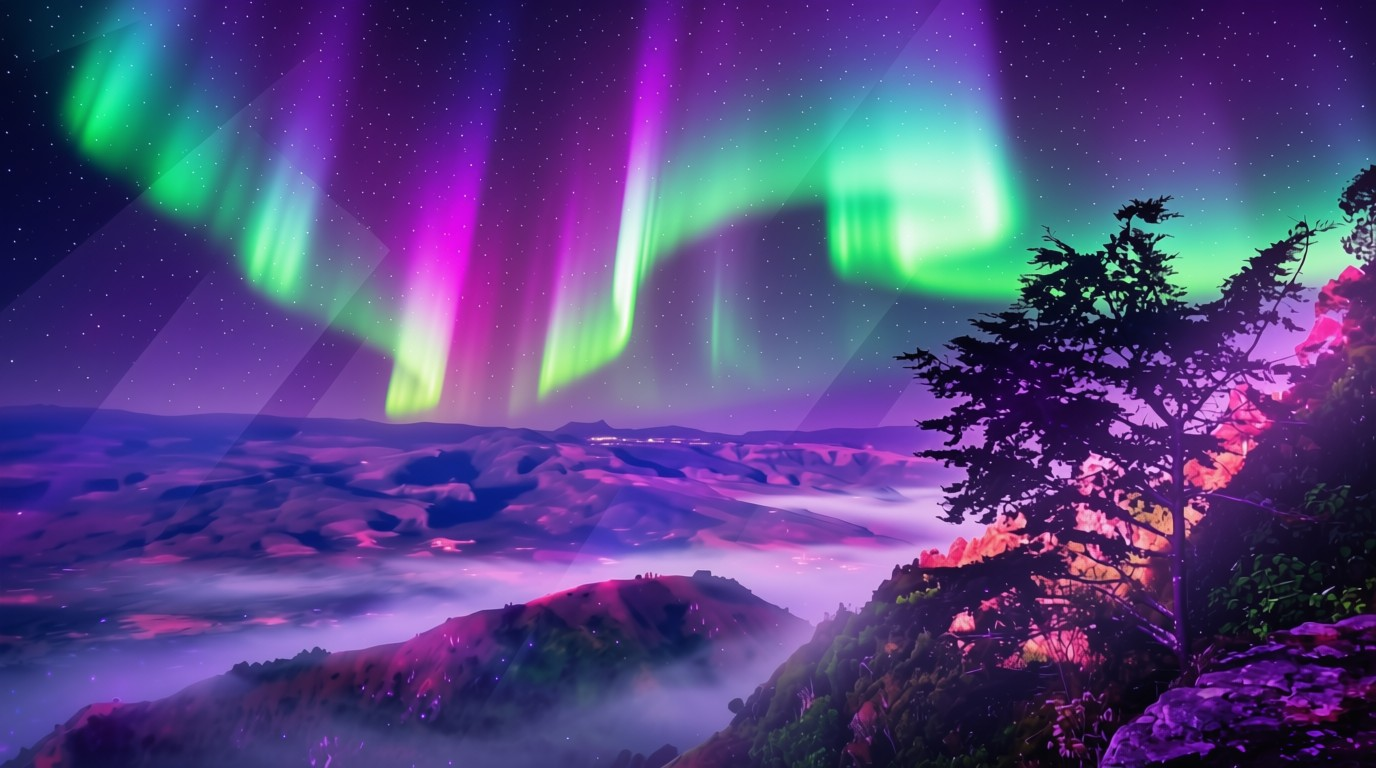
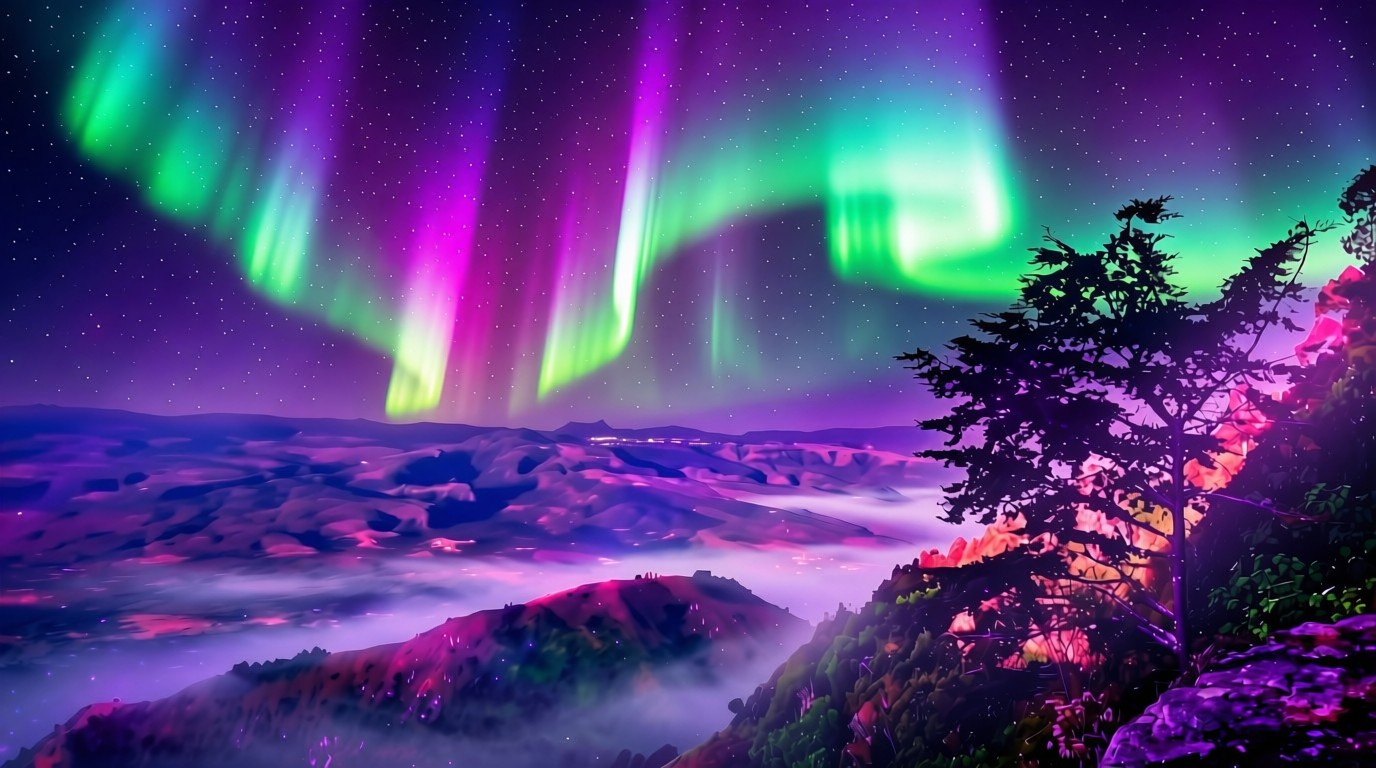
Update aurora image, remove dashboard nav links, increase landing page glassmorphism

diff --git a/client/src/pages/AI369.tsx b/client/src/pages/AI369.tsx
@@ -29,7 +29,7 @@ export default function AI369() {
             backgroundSize: 'cover',
             backgroundPosition: 'center 30%',
             backgroundAttachment: 'fixed',
-            filter: 'hue-rotate(15deg) saturate(1.1) brightness(0.82) contrast(1.05)',
+            filter: 'brightness(0.75) contrast(1.05)',
           }}
         />
         <div className="absolute inset-0" style={{
@@ -50,7 +50,7 @@ export default function AI369() {
       </div>
 
       {/* Nav — glass-surface floating on photo */}
-      <nav className="relative z-50 border-b border-[rgba(255,255,255,0.09)] sticky top-0 glass-surface">
+      <nav className="relative z-50 border-b border-[rgba(255,255,255,0.12)] sticky top-0" style={{ background: 'rgba(10,14,23,0.55)', backdropFilter: 'blur(24px) saturate(1.4)', WebkitBackdropFilter: 'blur(24px) saturate(1.4)', boxShadow: '0 8px 32px rgba(0,0,0,0.5), inset 0 1px 0 rgba(255,255,255,0.08)' }}>
         <div className="max-w-6xl mx-auto px-6 h-14 flex justify-between items-center">
           <div className="flex items-center gap-8">
             <div className="flex items-center gap-2 cursor-pointer" onClick={() => navigate("/")}>
@@ -58,11 +58,6 @@ export default function AI369() {
                 <Activity className="w-4 h-4 text-white" />
               </div>
               <span className="text-base font-bold text-white">369Labs</span>
-            </div>
-            <div className="hidden md:flex items-center gap-6">
-              {[{ label: "Dashboard", path: "/dashboard" }, { label: "Strategy Builder", path: "/strategy-builder" }, { label: "Marketplace", path: "/marketplace" }, { label: "Backtesting", path: "/backtesting" }].map((item) => (
-                <button key={item.path} onClick={() => navigate(item.path)} className="text-sm text-[var(--text-muted)] hover:text-[var(--text-primary)] transition-colors">{item.label}</button>
-              ))}
             </div>
           </div>
           <div className="flex items-center gap-4">
@@ -92,7 +87,7 @@ export default function AI369() {
 
         {/* 369AI Section */}
         <section className="max-w-6xl mx-auto px-6 py-16">
-          <motion.div initial="hidden" whileInView="visible" viewport={{ once: true }} variants={stagger} className="relative overflow-hidden rounded-2xl border border-[rgba(255,255,255,0.12)] glass-surface p-8 md:p-12">
+          <motion.div initial="hidden" whileInView="visible" viewport={{ once: true }} variants={stagger} className="relative overflow-hidden rounded-2xl border border-[rgba(255,255,255,0.12)] p-8 md:p-12" style={{ background: 'rgba(10,14,23,0.5)', backdropFilter: 'blur(24px) saturate(1.4)', WebkitBackdropFilter: 'blur(24px) saturate(1.4)', boxShadow: '0 8px 32px rgba(0,0,0,0.5), inset 0 1px 0 rgba(255,255,255,0.08)' }}>
             <div className="absolute -top-16 right-0 w-[300px] h-[300px] blur-[160px] rounded-full opacity-[0.1] pointer-events-none" style={{ background: 'linear-gradient(135deg, #4ade80, #8b5cf6)' }} />
             <div className="grid grid-cols-1 md:grid-cols-2 gap-10 items-center relative">
               <div>
@@ -128,7 +123,7 @@ export default function AI369() {
                   { label: "Strategy Review", value: "Live", note: "AI critiques risk & logic before you deploy" },
                   { label: "Verdict", value: "Live", note: "Top symbol & contract type ranked from your session" },
                 ].map((row) => (
-                  <div key={row.label} className="glass-surface rounded-xl p-4">
+                  <div key={row.label} className="rounded-xl p-4" style={{ background: 'rgba(10,14,23,0.45)', backdropFilter: 'blur(16px)', WebkitBackdropFilter: 'blur(16px)', border: '1px solid rgba(255,255,255,0.08)', boxShadow: '0 4px 16px rgba(0,0,0,0.3), inset 0 1px 0 rgba(255,255,255,0.05)' }}>
                     <div className="flex items-center justify-between mb-2">
                       <span className="text-[11px] uppercase tracking-widest text-[var(--text-muted)] font-bold">{row.label}</span>
                       <span className="text-sm font-bold font-mono tabular-nums text-[var(--accent)]">{row.value}</span>
@@ -141,7 +136,7 @@ export default function AI369() {
           </motion.div>
         </section>
 
-        <footer className="border-t border-[rgba(255,255,255,0.08)] py-6 px-6">
+        <footer className="border-t border-[rgba(255,255,255,0.1)] py-6 px-6" style={{ background: 'rgba(10,14,23,0.4)', backdropFilter: 'blur(16px)', WebkitBackdropFilter: 'blur(16px)' }}>
           <div className="max-w-6xl mx-auto flex flex-col md:flex-row justify-between items-center gap-4">
             <div className="flex items-center gap-2">
               <div className="w-4 h-4 rounded flex items-center justify-center" style={{ background: 'linear-gradient(135deg, #4ade80, #8b5cf6)' }}>

diff --git a/client/src/pages/Pricing.tsx b/client/src/pages/Pricing.tsx
@@ -29,7 +29,7 @@ export default function Pricing() {
             backgroundSize: 'cover',
             backgroundPosition: 'center 30%',
             backgroundAttachment: 'fixed',
-            filter: 'hue-rotate(15deg) saturate(1.1) brightness(0.82) contrast(1.05)',
+            filter: 'brightness(0.75) contrast(1.05)',
           }}
         />
         <div className="absolute inset-0" style={{
@@ -50,7 +50,7 @@ export default function Pricing() {
       </div>
 
       {/* Nav — glass-surface floating on photo */}
-      <nav className="relative z-50 border-b border-[rgba(255,255,255,0.09)] sticky top-0 glass-surface">
+      <nav className="relative z-50 border-b border-[rgba(255,255,255,0.12)] sticky top-0" style={{ background: 'rgba(10,14,23,0.55)', backdropFilter: 'blur(24px) saturate(1.4)', WebkitBackdropFilter: 'blur(24px) saturate(1.4)', boxShadow: '0 8px 32px rgba(0,0,0,0.5), inset 0 1px 0 rgba(255,255,255,0.08)' }}>
         <div className="max-w-6xl mx-auto px-6 h-14 flex justify-between items-center">
           <div className="flex items-center gap-8">
             <div className="flex items-center gap-2 cursor-pointer" onClick={() => navigate("/")}>
@@ -58,11 +58,6 @@ export default function Pricing() {
                 <Activity className="w-4 h-4 text-white" />
               </div>
               <span className="text-base font-bold text-white">369Labs</span>
-            </div>
-            <div className="hidden md:flex items-center gap-6">
-              {[{ label: "Dashboard", path: "/dashboard" }, { label: "Strategy Builder", path: "/strategy-builder" }, { label: "Marketplace", path: "/marketplace" }, { label: "Backtesting", path: "/backtesting" }].map((item) => (
-                <button key={item.path} onClick={() => navigate(item.path)} className="text-sm text-[var(--text-muted)] hover:text-[var(--text-primary)] transition-colors">{item.label}</button>
-              ))}
             </div>
           </div>
           <div className="flex items-center gap-4">
@@ -99,7 +94,7 @@ export default function Pricing() {
                 { name: "Pro", price: "$29", features: ["Real trading", "Advanced backtesting", "Unlimited bots", "AI signals & alerts", "Priority support"], cta: "Start Free Trial", popular: true },
                 { name: "Enterprise", price: "$99", features: ["Everything in Pro", "Dedicated infrastructure", "Custom AI models", "SLA guarantee", "Team management"], cta: "Contact Sales" },
               ].map((plan, i) => (
-                <motion.div key={i} variants={fadeUp} className={`relative p-5 rounded-xl glass-surface ${plan.popular ? "border-[rgba(255,255,255,0.15)]" : ""}`}>
+                <motion.div key={i} variants={fadeUp} className={`relative p-5 rounded-xl ${plan.popular ? "border-[rgba(255,255,255,0.18)]" : ""}`} style={{ background: 'rgba(10,14,23,0.5)', backdropFilter: 'blur(20px) saturate(1.3)', WebkitBackdropFilter: 'blur(20px) saturate(1.3)', border: '1px solid rgba(255,255,255,0.1)', boxShadow: '0 8px 32px rgba(0,0,0,0.4), inset 0 1px 0 rgba(255,255,255,0.06)' }}>
                   {plan.popular && <div className="absolute -top-2.5 left-6 px-3 py-0.5 text-[var(--bg)] text-[10px] font-bold rounded-full" style={{ background: 'linear-gradient(135deg, #4ade80, #8b5cf6)' }}>Most Popular</div>}
                   <h3 className="text-base font-semibold text-white mb-1">{plan.name}</h3>
                   <p className="text-2xl font-bold text-white mb-4">{plan.price}<span className="text-xs text-[var(--text-muted)] font-normal ml-1">{plan.price !== "$0" ? "/mo" : ""}</span></p>
@@ -115,7 +110,7 @@ export default function Pricing() {
           </motion.div>
         </section>
 
-        <footer className="border-t border-[rgba(255,255,255,0.08)] py-6 px-6">
+        <footer className="border-t border-[rgba(255,255,255,0.1)] py-6 px-6" style={{ background: 'rgba(10,14,23,0.4)', backdropFilter: 'blur(16px)', WebkitBackdropFilter: 'blur(16px)' }}>
           <div className="max-w-6xl mx-auto flex flex-col md:flex-row justify-between items-center gap-4">
             <div className="flex items-center gap-2">
               <div className="w-4 h-4 rounded flex items-center justify-center" style={{ background: 'linear-gradient(135deg, #4ade80, #8b5cf6)' }}>

diff --git a/client/src/pages/HowItWorks.tsx b/client/src/pages/HowItWorks.tsx
@@ -40,7 +40,7 @@ export default function HowItWorks() {
             backgroundSize: 'cover',
             backgroundPosition: 'center 30%',
             backgroundAttachment: 'fixed',
-            filter: 'hue-rotate(15deg) saturate(1.1) brightness(0.82) contrast(1.05)',
+            filter: 'brightness(0.75) contrast(1.05)',
           }}
         />
         <div className="absolute inset-0" style={{
@@ -61,7 +61,7 @@ export default function HowItWorks() {
       </div>
 
       {/* Nav — glass-surface floating on photo */}
-      <nav className="relative z-50 border-b border-[rgba(255,255,255,0.09)] sticky top-0 glass-surface">
+      <nav className="relative z-50 border-b border-[rgba(255,255,255,0.12)] sticky top-0" style={{ background: 'rgba(10,14,23,0.55)', backdropFilter: 'blur(24px) saturate(1.4)', WebkitBackdropFilter: 'blur(24px) saturate(1.4)', boxShadow: '0 8px 32px rgba(0,0,0,0.5), inset 0 1px 0 rgba(255,255,255,0.08)' }}>
         <div className="max-w-6xl mx-auto px-6 h-14 flex justify-between items-center">
           <div className="flex items-center gap-8">
             <div className="flex items-center gap-2 cursor-pointer" onClick={() => navigate("/")}>
@@ -69,11 +69,6 @@ export default function HowItWorks() {
                 <Activity className="w-4 h-4 text-white" />
               </div>
               <span className="text-base font-bold text-white">369Labs</span>
-            </div>
-            <div className="hidden md:flex items-center gap-6">
-              {[{ label: "Dashboard", path: "/dashboard" }, { label: "Strategy Builder", path: "/strategy-builder" }, { label: "Marketplace", path: "/marketplace" }, { label: "Backtesting", path: "/backtesting" }].map((item) => (
-                <button key={item.path} onClick={() => navigate(item.path)} className="text-sm text-[var(--text-muted)] hover:text-[var(--text-primary)] transition-colors">{item.label}</button>
-              ))}
             </div>
           </div>
           <div className="flex items-center gap-4">
@@ -107,7 +102,7 @@ export default function HowItWorks() {
             <div className="grid grid-cols-2 md:grid-cols-4 gap-3">
               {SYSTEM_FLOW.map((step, i) => (
                 <motion.div key={step.label} variants={fadeUp} className="relative group cursor-pointer" onClick={() => navigate(step.path)}>
-                  <div className="glass-surface rounded-xl p-4 hover:border-[rgba(255,255,255,0.15)] transition-all duration-300 h-full">
+                  <div className="rounded-xl p-4 hover:border-[rgba(255,255,255,0.18)] transition-all duration-300 h-full" style={{ background: 'rgba(10,14,23,0.5)', backdropFilter: 'blur(20px) saturate(1.3)', WebkitBackdropFilter: 'blur(20px) saturate(1.3)', border: '1px solid rgba(255,255,255,0.1)', boxShadow: '0 8px 32px rgba(0,0,0,0.4), inset 0 1px 0 rgba(255,255,255,0.06)' }}>
                     <div className="flex items-center justify-between mb-3">
                       <step.icon className="w-5 h-5 text-[var(--accent)]" />
                       <span className="text-[10px] font-mono text-[var(--text-disabled)]">0{i + 1}</span>
@@ -124,7 +119,7 @@ export default function HowItWorks() {
           </motion.div>
         </section>
 
-        <footer className="border-t border-[rgba(255,255,255,0.08)] py-6 px-6">
+        <footer className="border-t border-[rgba(255,255,255,0.1)] py-6 px-6" style={{ background: 'rgba(10,14,23,0.4)', backdropFilter: 'blur(16px)', WebkitBackdropFilter: 'blur(16px)' }}>
           <div className="max-w-6xl mx-auto flex flex-col md:flex-row justify-between items-center gap-4">
             <div className="flex items-center gap-2">
               <div className="w-4 h-4 rounded flex items-center justify-center" style={{ background: 'linear-gradient(135deg, #4ade80, #8b5cf6)' }}>

diff --git a/client/src/pages/Home.tsx b/client/src/pages/Home.tsx
@@ -42,8 +42,7 @@ export default function Home() {
             backgroundSize: 'cover',
             backgroundPosition: 'center 30%',
             backgroundAttachment: 'fixed',
-            /* Color grade: shift vegetation greens → teal, sky → purple/violet, shadows → navy, reduce brightness 15-20% */
-            filter: 'hue-rotate(15deg) saturate(1.1) brightness(0.82) contrast(1.05)',
+            filter: 'brightness(0.75) contrast(1.05)',
           }}
         />
         {/* Aurora glow layer — screen blend so light emits from within the photo */}
@@ -67,7 +66,7 @@ export default function Home() {
       </div>
 
       {/* Nav — glass-surface floating on photo */}
-      <nav className="relative z-50 border-b border-[rgba(255,255,255,0.09)] sticky top-0 glass-surface">
+      <nav className="relative z-50 border-b border-[rgba(255,255,255,0.12)] sticky top-0" style={{ background: 'rgba(10,14,23,0.55)', backdropFilter: 'blur(24px) saturate(1.4)', WebkitBackdropFilter: 'blur(24px) saturate(1.4)', boxShadow: '0 8px 32px rgba(0,0,0,0.5), inset 0 1px 0 rgba(255,255,255,0.08)' }}>
         <div className="max-w-6xl mx-auto px-6 h-14 flex justify-between items-center">
           <div className="flex items-center gap-8">
             <div className="flex items-center gap-2 cursor-pointer" onClick={() => navigate("/")}>
@@ -129,7 +128,7 @@ export default function Home() {
               { label: "Signals Today", value: "—", demo: true },
               { label: "Uptime", value: "99.9%", demo: false },
             ].map((stat, i) => (
-              <div key={i} className="glass-surface rounded-lg p-2.5 text-center snap-start shrink-0 w-[110px] md:w-auto">
+              <div key={i} className="rounded-lg p-2.5 text-center snap-start shrink-0 w-[110px] md:w-auto" style={{ background: 'rgba(10,14,23,0.5)', backdropFilter: 'blur(20px) saturate(1.3)', WebkitBackdropFilter: 'blur(20px) saturate(1.3)', border: '1px solid rgba(255,255,255,0.1)', boxShadow: '0 8px 32px rgba(0,0,0,0.4), inset 0 1px 0 rgba(255,255,255,0.06)' }}>
                 <div className="text-base font-bold text-white tabular-nums">{stat.value}</div>
                 <div className="text-[10px] text-[var(--text-muted)] mt-0.5">{stat.label}</div>
                 {stat.demo && <div className="text-[8px] text-[var(--accent)] mt-0.5">Demo data</div>}
@@ -148,7 +147,7 @@ export default function Home() {
           </motion.div>
 </section>
 
-        <footer className="border-t border-[rgba(255,255,255,0.08)] py-4 px-6">
+        <footer className="border-t border-[rgba(255,255,255,0.1)] py-4 px-6" style={{ background: 'rgba(10,14,23,0.4)', backdropFilter: 'blur(16px)', WebkitBackdropFilter: 'blur(16px)' }}>
           <div className="max-w-6xl mx-auto flex flex-col md:flex-row justify-between items-center gap-4">
             <div className="flex items-center gap-2">
               <div className="w-4 h-4 rounded flex items-center justify-center" style={{ background: 'linear-gradient(135deg, #4ade80, #8b5cf6)' }}>
